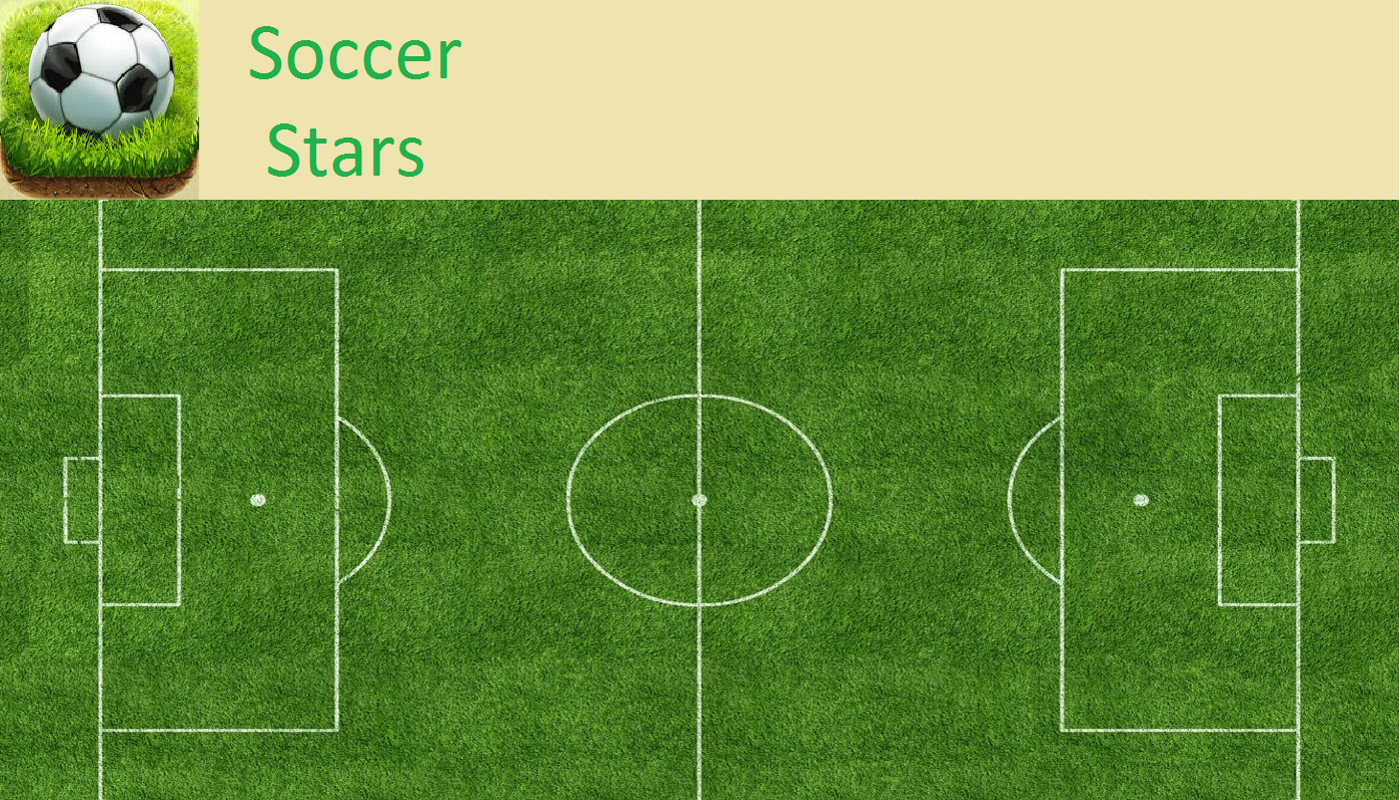
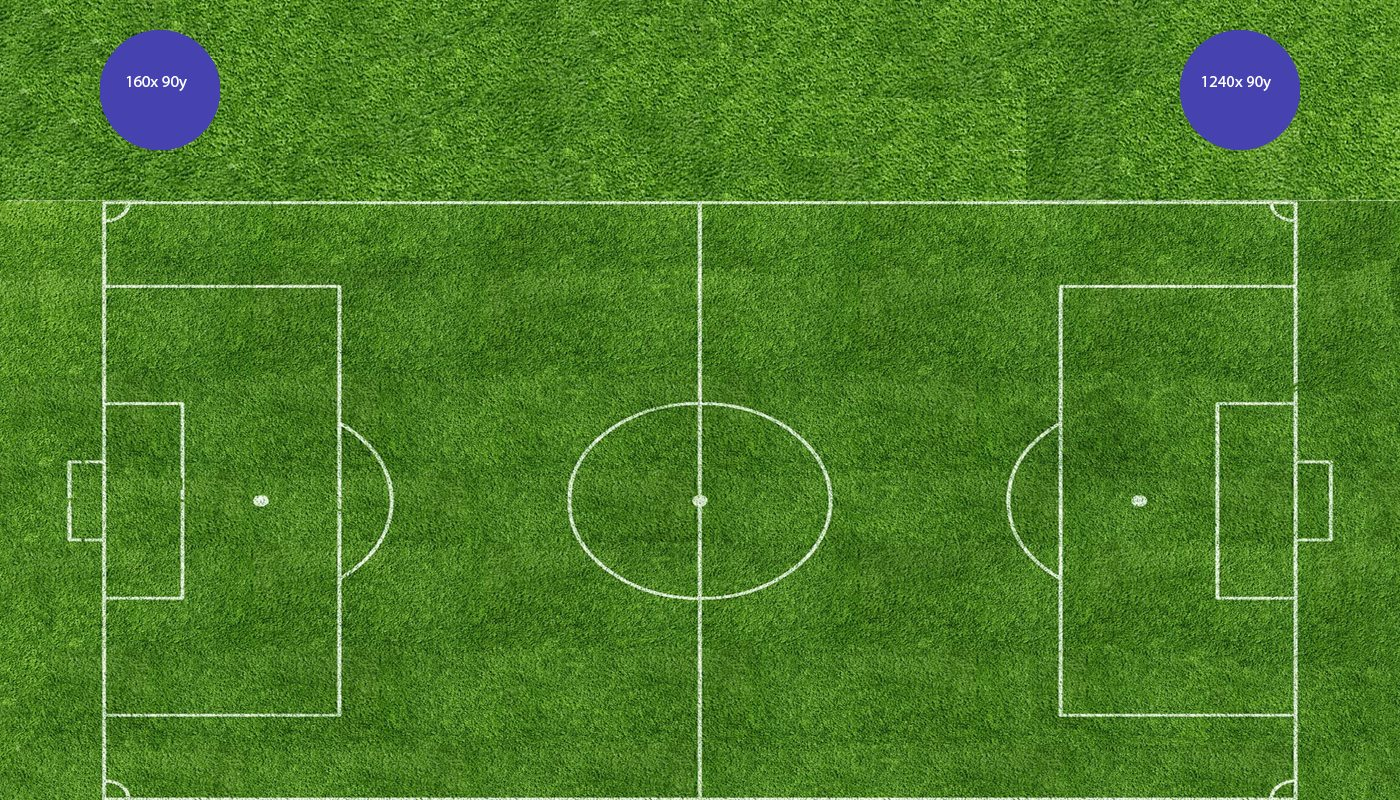
Small fixes and new images. Ready for stage 2: collisions between balls and palets

diff --git a/Jeu.java b/Jeu.java
@@ -45,8 +45,8 @@ public class Jeu extends JFrame implements MouseListener, ActionListener {
 		objects[6] = new Palet(1200,500,false,nomEquipe2);
 		objects[7] = new Palet(1000,300,false,nomEquipe2);
 		objects[8] = new Palet(1000,700,false,nomEquipe2);
-		objects[9] = new Palet(900,400,false,nomEquipe2);
-		objects[10] = new Palet(900,600,false,nomEquipe2);
+		objects[9] = new Palet(800,400,false,nomEquipe2);
+		objects[10] = new Palet(800,600,false,nomEquipe2);
 
 		setDefaultCloseOperation(JFrame.EXIT_ON_CLOSE);
 		addMouseListener(this);
@@ -112,6 +112,8 @@ public class Jeu extends JFrame implements MouseListener, ActionListener {
 
 	public void paint(Graphics g) {
 		buffer.drawImage(field,0,0,null);
+                buffer.drawImage(((Palet)(objects[0])).getBigImage(),100,30,null);
+                buffer.drawImage(((Palet)(objects[8])).getBigImage(),1180,30,null);
 
                 //* DEBUG
                 buffer.setColor(Color.GREEN);

diff --git a/PaletAndBall.java b/PaletAndBall.java
@@ -85,15 +85,15 @@ abstract public class PaletAndBall extends JPanel {
             maxX = xobject + RADIUS;
             minY = yobject - RADIUS;
             maxY = yobject + RADIUS;
-            if(minX < 100) {
+            if(minX < 105) {
                 direction *= -1;
-                xobject = 100 + RADIUS;
-            } else if (maxX > 1300) {
+                xobject = 105 + RADIUS;
+            } else if (maxX > 1295) {
                 direction *= -1;
-                xobject = 1300 - RADIUS;
-            } else if(minY < 200) {
+                xobject = 1295 - RADIUS;
+            } else if(minY < 205) {
                 direction = Math.PI - direction;
-                yobject = 200 + RADIUS;
+                yobject = 205 + RADIUS;
             } else if(maxY > 800) {
                 direction = Math.PI - direction;
                 yobject = 800 - RADIUS;

diff --git a/Palet.java b/Palet.java
@@ -32,6 +32,10 @@ public class Palet extends PaletAndBall {
 		return team;
 	}
 
+        public BufferedImage getBigImage() {
+                return grandeImagePalet;
+        }
+
 	public String getTeamName() {
 		return teamName;
 	}
